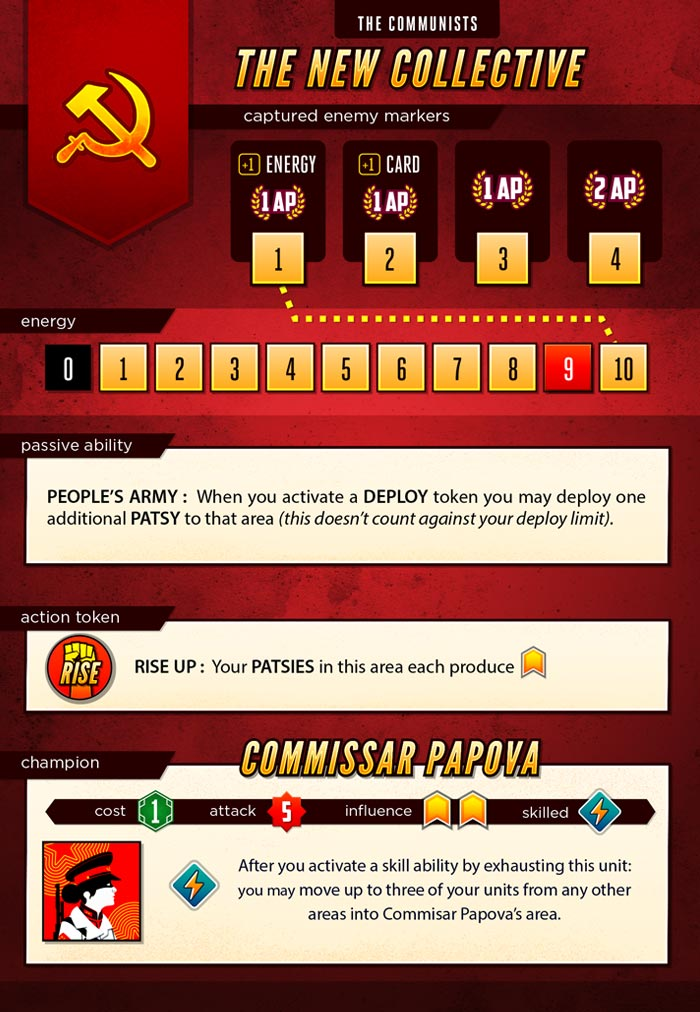
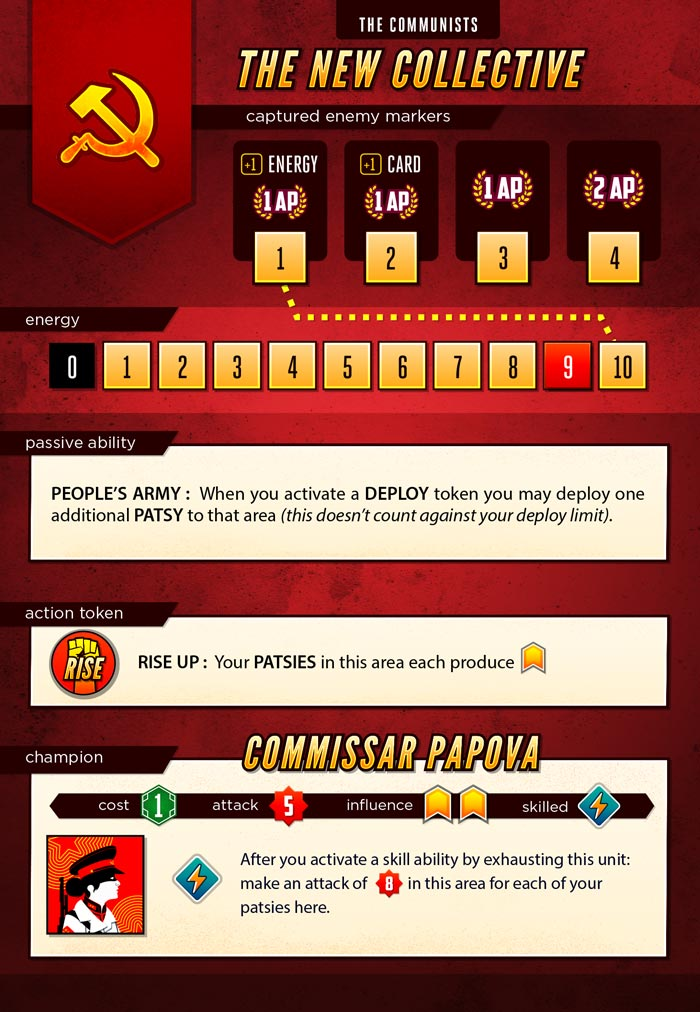
Give papov patsy riot ability

diff --git a/server/classes/factions/Commies.js b/server/classes/factions/Commies.js
@@ -44,7 +44,7 @@ class Commies extends Faction {
                 skilled: true,
                 ready: false,
                 killed : false,
-                onSkill : 'papovMove',
+                onSkill : 'papovShoot', //papovMove
                 selected : false,
                 hitsAssigned : 0
             }
@@ -80,6 +80,27 @@ class Commies extends Faction {
         }).catch( error => console.error( error ) );
     }
 
+
+    /**
+     * Handle Papov's skill triggered ability
+     *
+     * @param event
+     */
+    async papovShoot( event ){
+        this.message(`<span class="faction-commies">Commissar Papova</span> inspires her patsies to riot` );
+
+        let area = this.game().areas[event.unit.location];
+
+        // get the count of patsies we have in this area, and if we have none abort
+        let patsiesInAreaCount = this.unitsInArea( area, { type : 'patsy' } ).length;
+        if( !patsiesInAreaCount ){
+            this.message( 'has no patsies to riot', { class : 'warning' } );
+            return;
+        }
+
+        await this.nonCombatAttack(8, patsiesInAreaCount, area )
+            .catch( error => console.error( error ) );
+    }
 
     /**
      * Can we activate our rise token?
